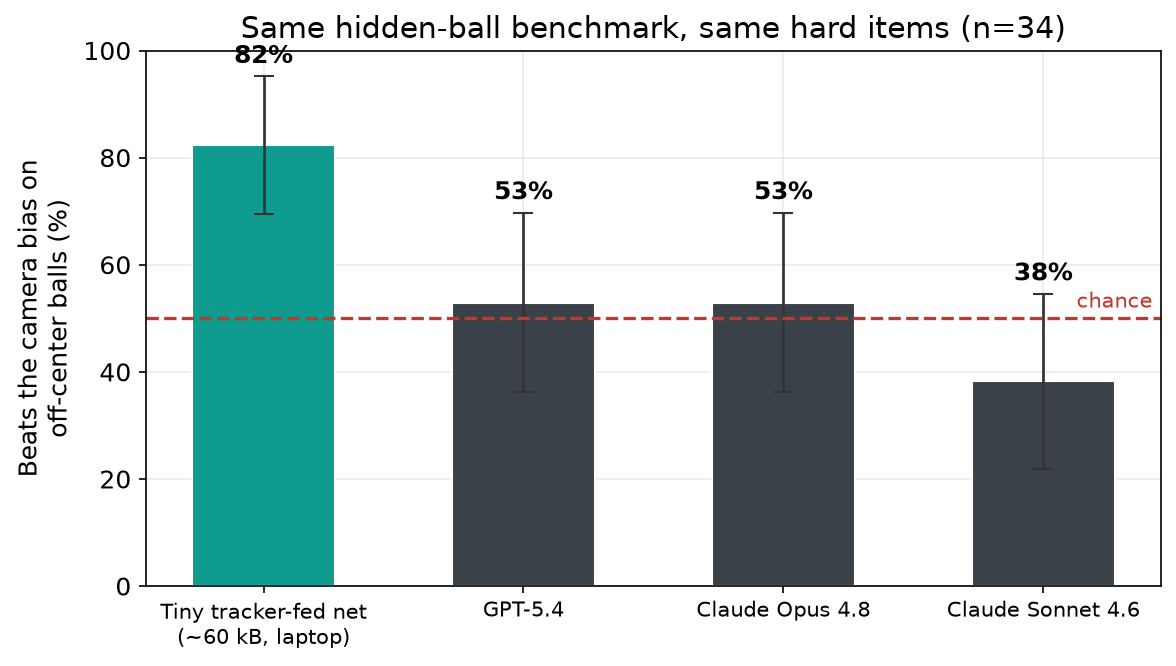
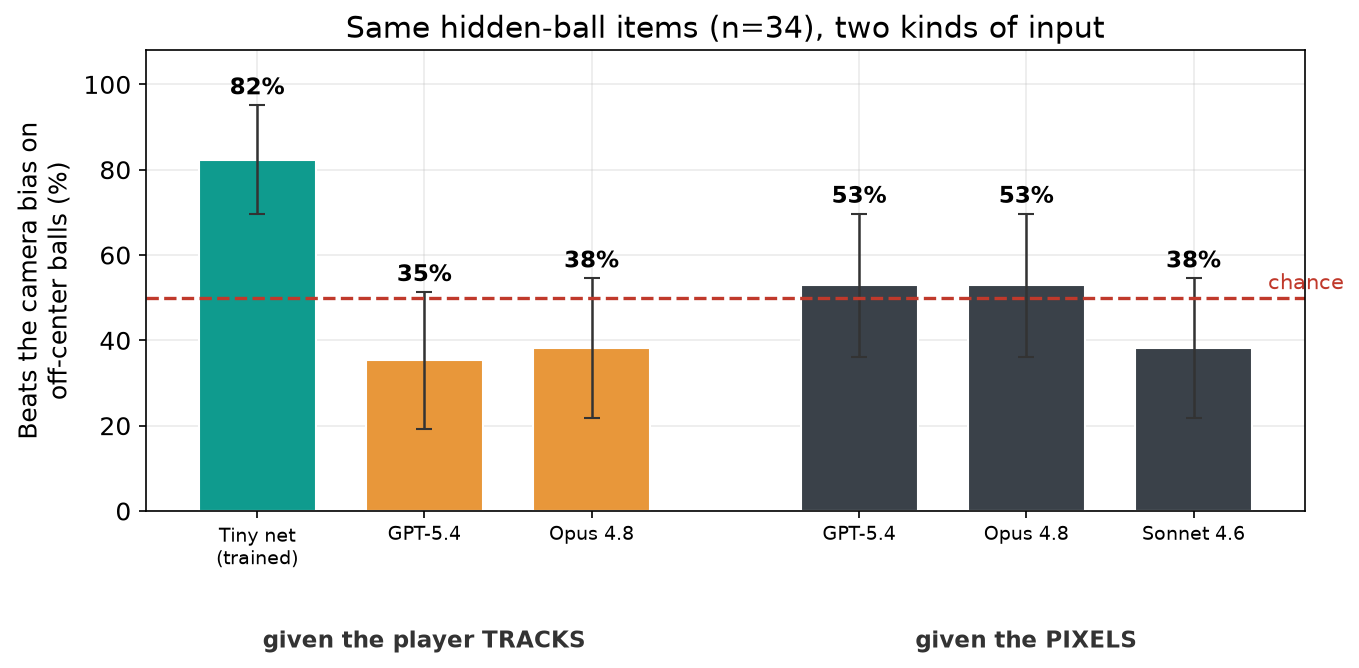
blog(wheres-the-ball-2): the missing cell — VLMs given tracks-as-text do WORSE
Javier's apples-vs-oranges review prompted the decisive experiment: GPT/Opus
given the exact same 1s player tracks the tiny net saw (as text) drop to 35-38%
on off-center balls (below chance) with null-to-negative correlations. The
article's claim changes from 'it's a pixel-reading problem' to 'the geometric
inference itself is missing; their spatial priors live in pixels'. F1 figure
regrouped by input type (tracks vs pixels); chart clipping fixed (82% / 0.35).

diff --git a/src/content/blog/es/wheres-the-ball-2.md b/src/content/blog/es/wheres-the-ball-2.md
@@ -29,9 +29,13 @@ Después la evalué sobre los mismos ítems de balón oculto de la Parte 1, empa
 
 ![Una red diminuta alimentada con tracks bate el sesgo de cámara donde los VLM frontera se quedan en el azar](/blog/wtb2-david-goliath.png)
 
-En balones descentrados, la red diminuta bate el sesgo de la cámara el **82% de las veces**; GPT-5.4 y Claude Opus 4.8 se quedan en el 53% — estadísticamente, una moneda al aire. Dos notas honestas antes de que esto se le suba a nadie a la cabeza. Primera: el modelito lee tracks de jugadores *ground-truth*, así que esto es un techo de información — responde a "¿está la señal ahí?", no a "¿puedes percibirla desde píxeles?". Segunda: los VLM siguen teniendo mejores medianas globales (0.147 vs 0.195), porque son precisos al píxel en los ítems fáciles y centrados donde la cámara ya ha hecho el trabajo. Ítem a ítem contra cada VLM en el subconjunto difícil, la redecita gana el 59-62% — favorable en dirección, no significativo individualmente con n=34.
+En balones descentrados, la red diminuta bate el sesgo de la cámara el **82% de las veces**; con píxeles, GPT-5.4 y Claude Opus 4.8 se quedan en el 53% — estadísticamente, una moneda al aire. Dos notas honestas antes de que esto se le suba a nadie a la cabeza. Primera: el modelito lee tracks de jugadores *ground-truth*, así que esto es un techo de información — responde a "¿está la señal ahí?". Segunda: los VLM siguen teniendo mejores medianas globales (0.147 vs 0.195), porque son precisos al píxel en los ítems fáciles y centrados donde la cámara ya ha hecho el trabajo.
 
-Pero la afirmación central sobrevive a los matices, y reencuadra la Parte 1: **la posición del balón está escrita en los movimientos de los jugadores — con la claridad suficiente para un modelo de juguete — y los VLM de hoy no saben leerla de los píxeles.** Su fallo no es que la tarea sea imposible. Es un problema de lectura.
+Hay una objeción obvia, eso sí, y merecía su propio experimento: esto es comparar naranjas con manzanas. Un sistema lee píxeles; el otro lee datos de tracking limpios. Quizá los VLM lo harían bien si les dieras los tracks. Así que ejecuté la celda que faltaba en la comparación: le di a GPT y a Opus **exactamente los mismos tracks de un segundo que vio la red diminuta, como coordenadas en texto plano**, y les hice la misma pregunta.
+
+Lo hicieron *peor*, no mejor. En el subconjunto difícil cayeron al 35-38% — por debajo del azar — y su correlación con la posición real del balón pasó de débilmente positiva a nula o ligeramente *negativa*. Con los números crudos en la mano, parecen caer en la mismísima trampa del centroide que la geometría de broadcast castiga (más sobre esto abajo). La intuición espacial que tengan estos modelos parece vivir en los píxeles, no en las coordenadas. (La cuarta celda del cuadro — la arquitectura diminuta entrenada sobre píxeles crudos — requiere un modelo de visión y queda fuera de alcance; el cuadro tiene tres celdas y ya dice mucho.)
+
+Ese resultado afiló la conclusión más de lo que esperaba, y reencuadra la Parte 1: **la posición del balón está escrita en los movimientos de los jugadores — con la claridad suficiente para un modelo de juguete — y el fallo de los modelos frontera no es de percepción. Con la misma información y sin píxeles de por medio, lo hacen peor. Lo que falta es la inferencia geométrica en sí.** Un matiz justo corta en la otra dirección: la red diminuta fue *entrenada* exactamente para esta tarea y los VLM van en zero-shot — pero esa es precisamente la pregunta que hacía la Parte 1: si el conocimiento general del juego sustituye a la especialización. En esta tarea, no.
 
 ## La cámara miente
 
@@ -65,7 +69,7 @@ Lo que sobrevive a todos los controles, agregando ambas direcciones de transfere
 
 ## Conclusiones
 
-- **La señal está en los tracks.** Una red de 60 kB sobre tracks de jugadores resuelve los balones descentrados que los VLM frontera no pueden, batiendo el sesgo de cámara el 82% de las veces donde ellos están en el azar. El fallo de los VLM en la Parte 1 es un problema de lectura de píxeles, no de información.
+- **La señal está en los tracks — y el fallo de los VLM no es de percepción.** Una red de 60 kB sobre tracks de jugadores resuelve los balones descentrados que los VLM frontera no pueden (82% vs azar). Con los *mismos tracks en texto plano*, los VLM lo hacen peor, no mejor (35-38%, bajo el azar). Lo que les falta es la inferencia geométrica en sí; sus priors espaciales viven en los píxeles, no en las coordenadas.
 - **La geometría de broadcast es una trampa.** El centroide de jugadores está anti-correlacionado con el balón en espacio de imagen (−0.58) y fuertemente correlacionado en coordenadas de campo (+0.83). La cámara cambia el signo.
 - **La transferencia entre deportes es real, pequeña y asimétrica.** El baloncesto exporta su sentido del balón al fútbol; el fútbol no devuelve el favor. Lo que transfiere no son reglas ni formaciones — es el uso de las velocidades, que vale ~5% tras calibrar.
 - **Los controles hicieron el trabajo duro, otra vez.** Un control de pre-entreno permutado y una ablación de features tumbaron sendas conclusiones que estaba listo para publicar. Este proyecto va tres de tres en "la primera versión de la historia era falsa".

diff --git a/src/content/blog/en/wheres-the-ball-2.md b/src/content/blog/en/wheres-the-ball-2.md
@@ -29,9 +29,13 @@ Then I evaluated it on the same hidden-ball items from Part 1, paired with the s
 
 ![A tiny tracker-fed network beats the camera bias where frontier VLMs sit at chance](/blog/wtb2-david-goliath.png)
 
-On off-center balls the tiny network beats the camera bias **82% of the time**; GPT-5.4 and Claude Opus 4.8 sit at 53% — statistically, a coin flip. Two honest footnotes before this goes to anyone's head. First, the little model reads *ground-truth* player tracks, so this is an information ceiling — it answers "is the signal there?", not "can you perceive it from pixels?". Second, the VLMs still post better global medians (0.147 vs 0.195), because they are pixel-precise on the easy, centered items where the camera has already done the work. Item-by-item against each VLM on the hard subset the tiny net wins 59–62% — directionally favorable, not individually significant at n=34.
+On off-center balls the tiny network beats the camera bias **82% of the time**; given pixels, GPT-5.4 and Claude Opus 4.8 sit at 53% — statistically, a coin flip. Two honest footnotes before this goes to anyone's head. First, the little model reads *ground-truth* player tracks, so this is an information ceiling — it answers "is the signal there?". Second, the VLMs still post better global medians (0.147 vs 0.195), because they are pixel-precise on the easy, centered items where the camera has already done the work.
 
-But the core claim survives the caveats, and it reframes Part 1: **the ball's position is written in the players' movements — plainly enough for a toy model — and today's VLMs can't read it off the pixels.** Their failure isn't the task being impossible. It's a reading problem.
+There's an obvious objection, though, and it deserved its own experiment: this is apples and oranges. One system reads pixels; the other reads clean tracking data. Maybe the VLMs would do fine if you handed them the tracks. So I ran the missing cell of the comparison: I gave GPT and Opus the **exact same one-second player tracks the tiny net saw, as plain text coordinates**, and asked the same question.
+
+They got *worse*, not better. On the hard subset they dropped to 35–38% — below chance — and their correlation with the true ball position went from weakly positive to null or slightly *negative*. Handed the raw numbers, they appear to fall into the very centroid trap that broadcast geometry punishes (more on that below). Whatever spatial intuition these models have seems to live in pixels, not in coordinates. (The fourth cell of the grid — the tiny architecture trained on raw pixels — needs a vision model and stays out of scope; the grid is three cells and says plenty.)
+
+That result sharpened the conclusion beyond what I expected, and it reframes Part 1: **the ball's position is written in the players' movements — plainly enough for a toy model — and the frontier models' failure isn't perception. Given the same information with the pixels stripped away, they do worse. What's missing is the geometric inference itself.** A fair caveat cuts the other way too: the tiny net was *trained* for this exact task and the VLMs are zero-shot — but that is precisely the question Part 1 asked, whether general game-knowledge substitutes for specialization. On this task, it doesn't.
 
 ## The camera lies
 
@@ -65,7 +69,7 @@ What survives all the controls, pooled across both transfer directions: real pre
 
 ## Takeaways
 
-- **The signal is in the tracks.** A 60 kB network on player tracks solves the off-center balls that frontier VLMs can't, beating the camera bias 82% of the time where they sit at chance. The VLM failure in Part 1 is a pixel-reading problem, not an information problem.
+- **The signal is in the tracks — and the VLM failure isn't perception.** A 60 kB network on player tracks solves the off-center balls that frontier VLMs can't (82% vs chance). Given the *same tracks as plain text*, the VLMs get worse, not better (35–38%, below chance). What they lack is the geometric inference itself; their spatial priors live in pixels, not coordinates.
 - **Broadcast geometry is a trap.** The player centroid is anti-correlated with the ball in image space (−0.58) and strongly correlated in field coordinates (+0.83). The camera flips the sign.
 - **Transfer between sports is real, small, and asymmetric.** Basketball exports its ball-sense to football; football doesn't return the favor. What transfers isn't rules or formations — it's the use of velocity features, worth ~5% after calibration.
 - **The controls did the heavy lifting, again.** A shuffled-target pretraining control and a feature ablation each overturned a conclusion I was ready to publish. This project is three-for-three on "the first version of the story was wrong."
